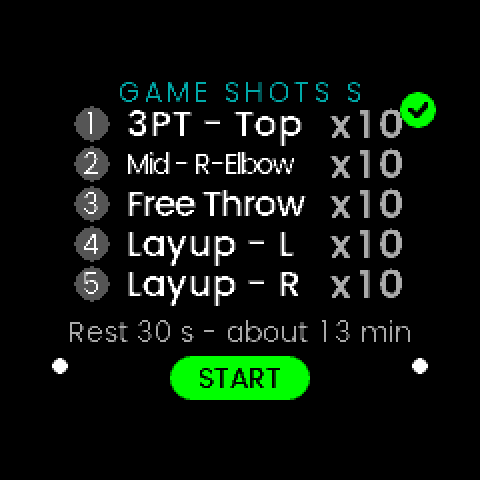
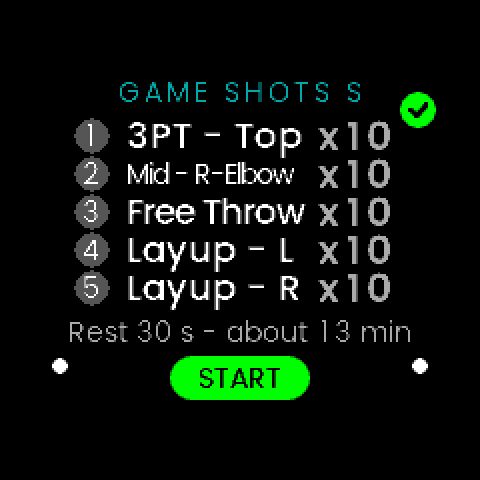
fix(gui): five-row workout preview clears the SELECT badge
Rows start at y 68 (19 px pitch) and the counts end at x 196 in the dense
layout, so row 1 no longer touches the green check badge (centre y 55, r 9).
Refreshed the store preview.

Changed region(s): [[0.1562, 0.2188, 0.8438, 0.6562]]

diff --git a/Software/Apps/LVGL-GUI/gui/src/screens/WorkoutPreviewScreen.cpp b/Software/Apps/LVGL-GUI/gui/src/screens/WorkoutPreviewScreen.cpp
@@ -24,8 +24,11 @@ using Font = Theme::Font;
 // Layout, docs/mockup-layout.md §4 (vertical centres).
 constexpr int32_t kHeaderY      = 46;
 constexpr int32_t kRowY[4]      = { 69, 94, 119, 143 };
-constexpr int32_t kDenseTop     = 62;    // five rows, 20 px apart
-constexpr int32_t kDensePitch   = 20;
+// Five rows, 19 px apart, starting low enough that row 1 clears the SELECT
+// badge (centre y 55, r 9); the counts also stop short of it (x 200).
+constexpr int32_t kDenseTop        = 68;
+constexpr int32_t kDensePitch      = 19;
+constexpr int32_t kDenseCountRight = 196;
 constexpr uint8_t kMaxRows      = 5;
 constexpr int32_t kNumX         = 46;
 constexpr int32_t kNumR         = 9;
@@ -42,6 +45,11 @@ constexpr Font kLabelFonts[] = { Font::Medium18, Font::Regular16, Font::Regular1
 int32_t rowY(uint8_t i, uint8_t rows)
 {
     return rows <= 4 ? kRowY[i] : kDenseTop + i * kDensePitch;
+}
+
+int32_t countRight(uint8_t rows)
+{
+    return rows <= 4 ? kCountRight : kDenseCountRight;
 }
 
 } // namespace
@@ -101,13 +109,14 @@ bool WorkoutPreviewScreen::show()
 
     const uint8_t steps = w->stepCount < score::kMaxSteps ? w->stepCount : score::kMaxSteps;
     const uint8_t rows  = steps <= kMaxRows ? steps : kMaxRows;
+    const int32_t right = countRight(rows);
     for (uint8_t i = 0; i < rows; ++i) {
         const int32_t y = rowY(i, rows);
         if (i == kMaxRows - 1 && steps > kMaxRows) {
             char more[24];
             snprintf(more, sizeof(more), "+ %u more steps", static_cast<unsigned>(steps - (kMaxRows - 1)));
             Theme::label(mContent, Font::Regular14, more, kLabelX, Theme::topFor(Font::Regular14, y),
-                         kCountRight - kLabelX, LV_TEXT_ALIGN_LEFT, Theme::kDim);
+                         right - kLabelX, LV_TEXT_ALIGN_LEFT, Theme::kDim);
             break;
         }
         const score::Step& st = w->steps[i];
@@ -121,13 +130,13 @@ bool WorkoutPreviewScreen::show()
         char count[12];
         Theme::fmtGoal(count, sizeof(count), st.goal.type, st.goal.value);
         const int32_t wc = Theme::textWidth(Font::SemiBold20, count);
-        Theme::label(mContent, Font::SemiBold20, count, kCountRight - wc - 1, Theme::topFor(Font::SemiBold20, y), wc + 1,
+        Theme::label(mContent, Font::SemiBold20, count, right - wc - 1, Theme::topFor(Font::SemiBold20, y), wc + 1,
                      LV_TEXT_ALIGN_RIGHT, Theme::kDim);
 
         // The spot, without its category part when it does not fit.
         const char* name    = score::spotInfo(st.spot).name;
         const char* texts[] = { name, Theme::spotShort(name) };
-        Theme::fitLabel(mContent, texts, 2, kLabelFonts, 3, kLabelX, kCountRight - wc - kRowGap - kLabelX, y,
+        Theme::fitLabel(mContent, texts, 2, kLabelFonts, 3, kLabelX, right - wc - kRowGap - kLabelX, y,
                         LV_TEXT_ALIGN_LEFT, Theme::kText);
     }
 
